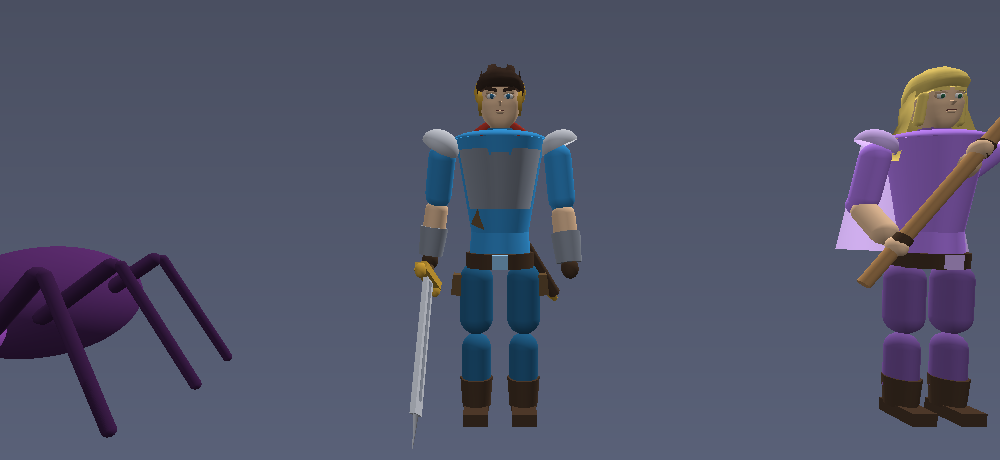
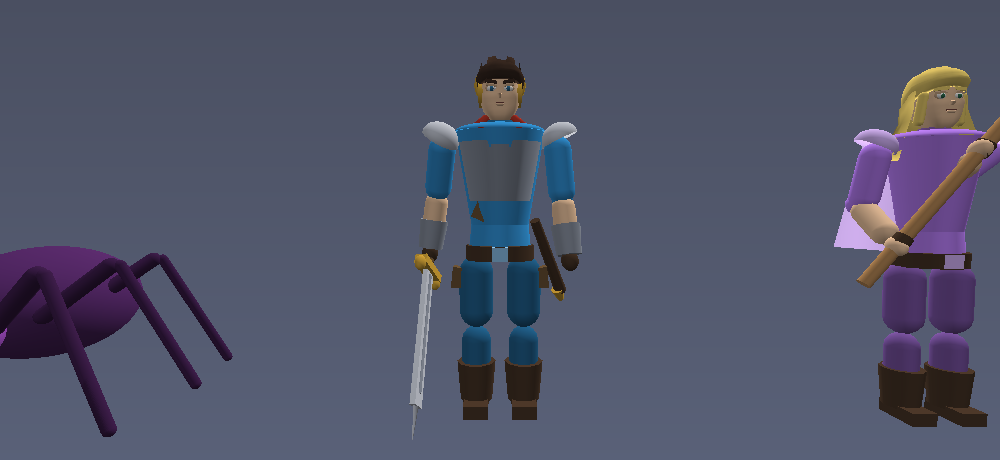
Ножны из поясницы, кромка ботинок, кадр бега и фото замаха
- Ножны пересекали корпус на 0.40 x 0.26 x 0.36 — буквально проходили
  сквозь тело. Уведены наружу бедра и назад; проверка честная, по точкам
  ОСИ против поверхности корпуса: у наклонённого цилиндра bounding box
  сильно преувеличивает пересечение.
- Голенище (0.29) было почти впритык к голени (0.26) — зазор 0.015 на
  сторону, и синяя штанина просвечивала сквозь кромку сзади. Расширено
  до 0.34 и поднято: выше -0.33 голень оставалась голой.
- Превью бега ловило случайную фазу: на кадре 180 ноги почти сведены,
  вынос выглядел слабым. Теперь --pose=run сам ищет кадр максимального
  разведения ног (109 градусов).
- Добавлен вид ryudoswing и превью замаха: клинок уходит на высоту 4.2,
  и обычные ракурсы его срезали — фото замаха просто не помещалось.

Мутации «вернуть ножны в поясницу» и «сузить голенище» роняют тесты.

diff --git a/src/render/models.js b/src/render/models.js
@@ -165,20 +165,23 @@ export function createHumanoid(scene, { id, color = '#3498db', weapon = 'sword',
         strap.material = leatherLight;
 
         // Ножны на поясе, а не на лопатке: раньше верх упирался в наплечник.
+        // Ножны висят СНАРУЖИ бедра и уходят назад. Прежняя посадка
+        // (x -0.28, z -0.16) втыкала их в поясницу: короб пересекал корпус
+        // на 0.40 x 0.26 x 0.36 — ножны буквально проходили сквозь тело.
         const scabbard = track(MeshBuilder.CreateCylinder(`${id}_scabbard`, {
-            height: 1.0, diameterTop: 0.09, diameterBottom: 0.12, tessellation: 8,
+            height: 0.86, diameterTop: 0.09, diameterBottom: 0.12, tessellation: 8,
         }, scene));
         scabbard.parent = torso;
-        scabbard.position.set(-0.28, 0.06, -0.16);
-        scabbard.rotation.set(0.42, 0, -0.5);
+        scabbard.position.set(-0.46, -0.06, -0.32);
+        scabbard.rotation.set(0.5, 0, -0.34);
         scabbard.material = leather;
 
         const scabbardTip = track(MeshBuilder.CreateCylinder(`${id}_scabbardTip`, {
             height: 0.14, diameterTop: 0.13, diameterBottom: 0.06, tessellation: 8,
         }, scene));
         scabbardTip.parent = torso;
-        scabbardTip.position.set(-0.5, -0.35, -0.36);
-        scabbardTip.rotation.set(0.42, 0, -0.5);
+        scabbardTip.position.set(-0.59, -0.45, -0.52);
+        scabbardTip.rotation.set(0.5, 0, -0.34);
         scabbardTip.material = gold;
 
         // Красный шарф — самая узнаваемая деталь силуэта Рюдо.
@@ -559,11 +562,14 @@ export function createHumanoid(scene, { id, color = '#3498db', weapon = 'sword',
         foot.material = leather;
 
         // Голенище — сапог, а не дощечка под ногой.
+        // Голенище шире голени (0.26) с запасом: при 0.29 зазор был всего
+        // 0.015 на сторону, и синяя штанина просвечивала сквозь кромку
+        // сзади. Заодно поднимаем — раньше выше -0.33 голень была голой.
         const shaftBoot = track(MeshBuilder.CreateCylinder(`${name}_boot`, {
-            height: 0.26, diameterTop: 0.29, diameterBottom: 0.25, tessellation: 10,
+            height: 0.34, diameterTop: 0.34, diameterBottom: 0.28, tessellation: 10,
         }, scene));
         shaftBoot.parent = parent;
-        shaftBoot.position.set(0, -0.46, 0.01);
+        shaftBoot.position.set(0, -0.42, 0.01);
         shaftBoot.material = leather;
     }
 
